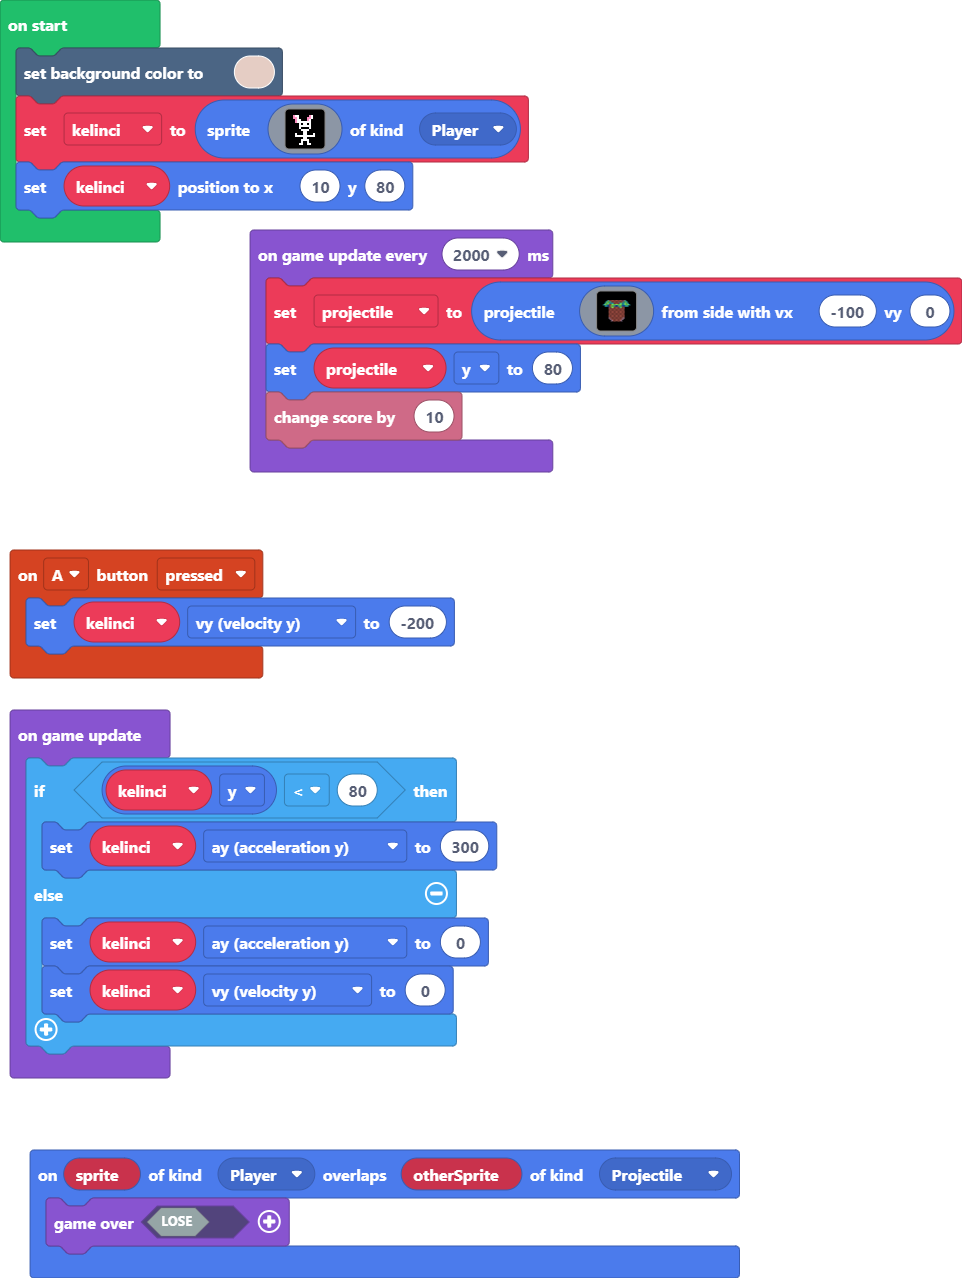
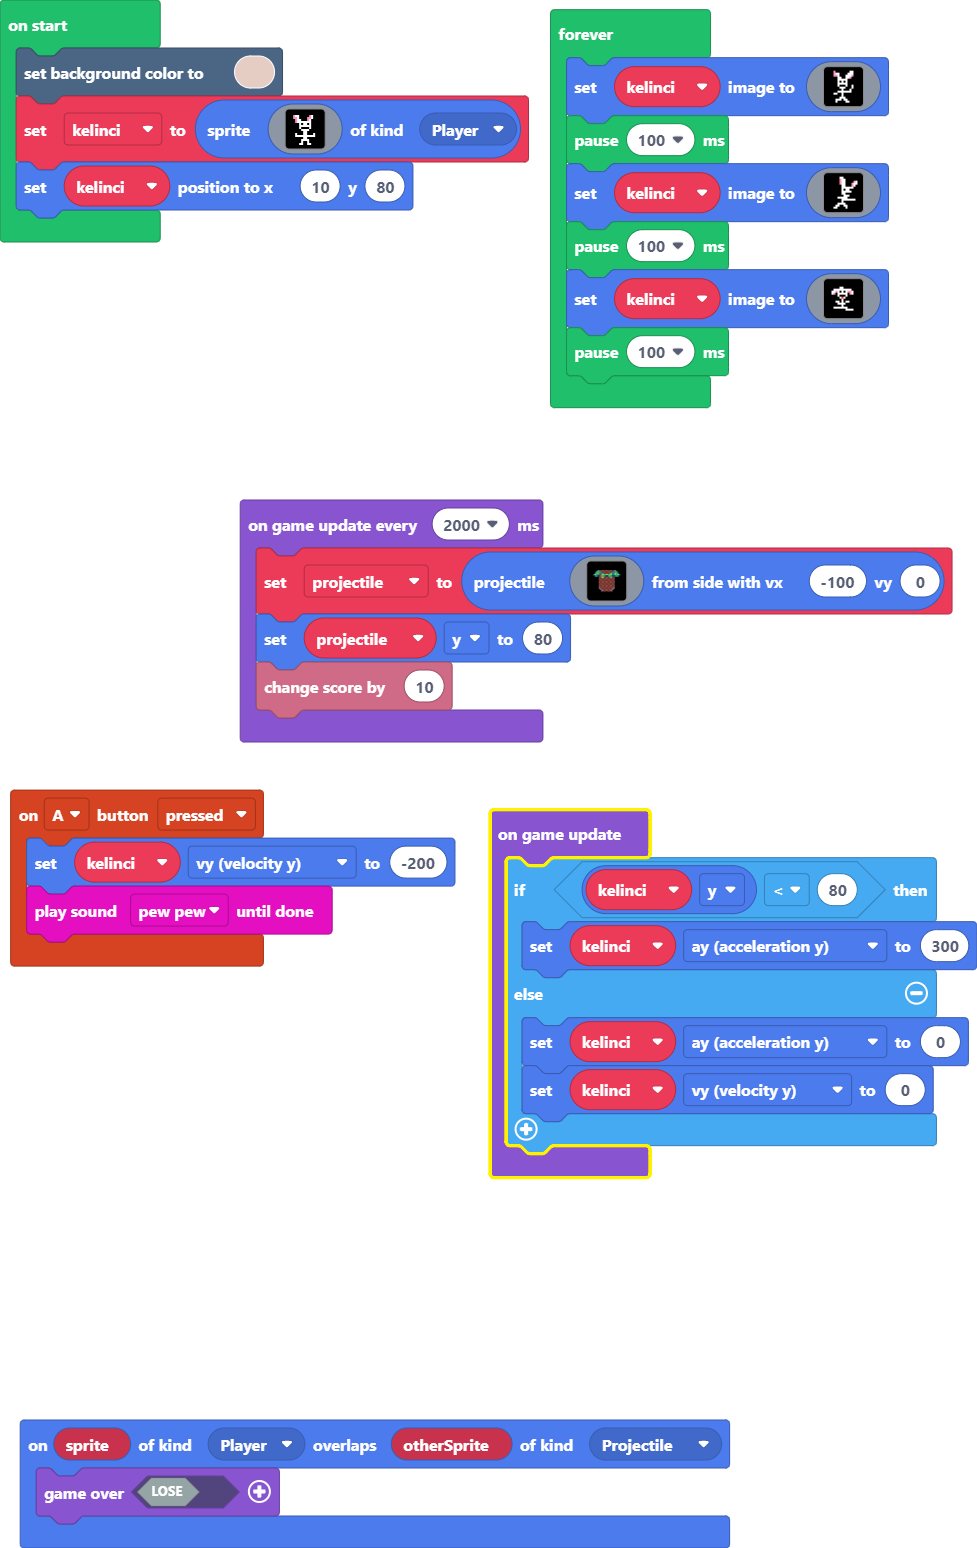
Update pxt.json, main.blocks, main.ts

diff --git a/main.ts b/main.ts
@@ -1,5 +1,6 @@
 controller.A.onEvent(ControllerButtonEvent.Pressed, function () {
     kelinci.vy = -200
+    music.pewPew.playUntilDone()
 })
 sprites.onOverlap(SpriteKind.Player, SpriteKind.Projectile, function (sprite, otherSprite) {
     game.over(false)
@@ -55,4 +56,63 @@ game.onUpdateInterval(2000, function () {
         `, -100, 0)
     projectile.y = 80
     info.changeScoreBy(10)
+})
+forever(function () {
+    kelinci.setImage(img`
+        . . . 3 . . . . . . . 1 1 . . . 
+        . . . 3 1 1 . . . . 1 1 1 . . . 
+        . . . 3 3 1 . . . 1 1 1 3 . . . 
+        . . . . . 1 1 . . 1 1 3 . . . . 
+        . . . . . 1 1 1 1 1 . . . . . . 
+        . . . . . 1 f 1 f 1 . . . . . . 
+        . . . . . 1 1 1 1 1 . . . . . . 
+        . . . . . 1 f f f 1 . . 1 . . . 
+        . . . . . . 1 1 1 . . . 1 . . . 
+        . . . . . . . 1 . . . 1 . . . . 
+        . . . . . 1 1 1 1 1 1 1 . . . . 
+        . . . 1 1 . . 1 . . . . . . . . 
+        . . . . . . . 1 . . . . . . . . 
+        . . . . . . 1 1 1 . . . . . . . 
+        . . . . 1 1 1 . 1 1 . . . . . . 
+        . . . . 1 . . . . 1 1 . . . . . 
+        `)
+    pause(100)
+    kelinci.setImage(img`
+        . . . . . . 1 1 . . . . . . . . 
+        . . . . . . 3 1 1 . . . . . . . 
+        . . . . . . 3 1 1 . . . . 3 1 . 
+        . . . . . . 3 1 1 . . . 3 1 1 . 
+        . . . . . . . 1 1 . . . 3 1 . . 
+        . . . . . . . 1 1 1 1 1 1 . . . 
+        . . . . . . . 1 f 1 1 f . . . . 
+        . . . . . . . 1 1 1 1 1 . . . . 
+        . . . . . . . 1 1 f f f . . . . 
+        . . . . . . . . 1 1 1 . . . . . 
+        . . . . . 1 1 1 1 1 . . . . . . 
+        . . . . . . . 1 1 1 1 1 1 1 . . 
+        . . . . . . . 1 . . . . . . . . 
+        . . . . . 1 1 1 1 . . . . . . . 
+        . . . . 1 1 . . 1 1 . . . . . . 
+        . . . 1 1 . . . . 1 . . . . . . 
+        `)
+    pause(100)
+    kelinci.setImage(img`
+        . . . . . . . . . . . . . . . . 
+        . . . . . . . . . . . . . . . . 
+        . . . . . . 1 1 . . . . . . . . 
+        . . . 1 1 1 1 1 1 1 1 1 . . . . 
+        . . 1 1 3 1 f 1 f 1 3 3 1 . . . 
+        . . 1 3 . 1 1 1 1 1 . 3 1 . . . 
+        . . . . . 1 f f f 1 . . . . . . 
+        . . . . . . 1 2 1 . . . . . . . 
+        . . . . . . . 1 . . . . . . . . 
+        . . . . 1 1 . 1 . 1 1 . . . . . 
+        . . . . . 1 1 1 1 . . . . . . . 
+        . . . . . . . 1 . . . . . . . . 
+        . . . 1 1 1 1 1 1 1 . . . . . . 
+        . . . . . . . . . 1 1 1 1 . . . 
+        . . . . . . . . . . . . . . . . 
+        . . . . . . . . . . . . . . . . 
+        `)
+    pause(100)
 })
